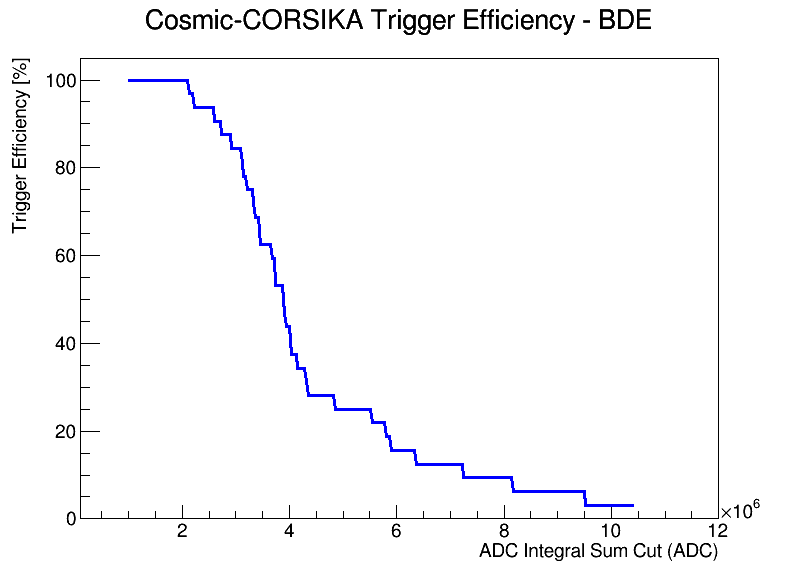
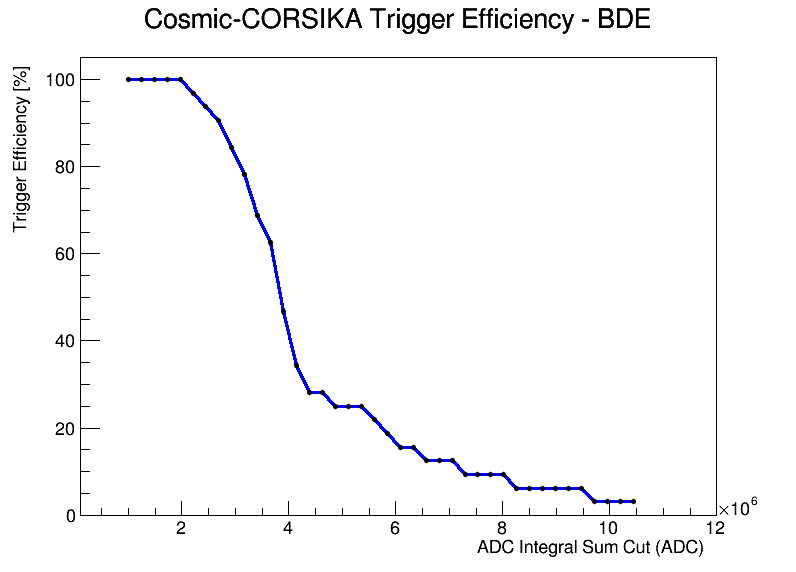
Yonnan plot for efficiency

diff --git a/Efficiency_cosmic.C b/Efficiency_cosmic.C
@@ -12,6 +12,7 @@
 
 TGraph* calculateEfficiency(const std::vector<Double_t>& data, double thr_min, int nThreshold){
     double NTotal = static_cast<double>(data.size());
+    std::cout<<"Debugging NTotal: "<<NTotal<<std::endl;
     double thr_max = data.back();
     //double thr_max = 40e6;
     TGraph* eff = new TGraph();
@@ -35,7 +36,8 @@ void Efficiency_cosmic(){
     taTree->SetBranchAddress("channel_peak", &taChannelPeakVec);
 
     std::vector<Double_t> cosmicBDE;
-
+    std::cout<<"TRee Entries: "<<taTree->GetEntries()<<std::endl;
+    
     for(Long64_t i = 0; i<taTree->GetEntries(); ++i){
 	taTree->GetEntry(i);
 	if(!taADCSumVec || !taChannelPeakVec) continue;
@@ -54,14 +56,18 @@ void Efficiency_cosmic(){
     auto countAbove = [&](double thr){
 	return std::distance(std::lower_bound(cosmicBDE.begin(), cosmicBDE.end(), thr), cosmicBDE.end());
     };
+    
+    std::cout<<"Debug Cosmic BDE Size: "<<cosmicBDE.size()<<std::endl;
+
+
     double eff8M = 100.0 * countAbove(8e6) / (double)cosmicBDE.size();
     std::cout << "\n======== BDE Cosmic Only ========\n";
-    std::cout << "Total events with best TA in BDE: " << cosmicBDE.size() << "\n";
+    std::cout << "Total events BDE at 8M: " << countAbove(8e6) << "\n";
     std::cout << "Efficiency at 8M ADC: " << eff8M << " %\n";
     std::cout << "=================================\n";
 
     const double thr_min = 1e6;
-    const int nThreshold = 300;
+    const int nThreshold = 40;
     TGraph* effCos = calculateEfficiency(cosmicBDE, thr_min, nThreshold);
     gStyle->SetOptStat(0);
 
@@ -74,6 +80,6 @@ void Efficiency_cosmic(){
     effCos->GetHistogram()->SetMinimum(0);
     effCos->GetHistogram()->SetMaximum(105);
     effCos->GetXaxis()->SetLimits(1e5, 12e6);
-    effCos->Draw("AL");
+    effCos->Draw("ALP");
     c->SaveAs("Efficiency_Cosmic.png");
 }
